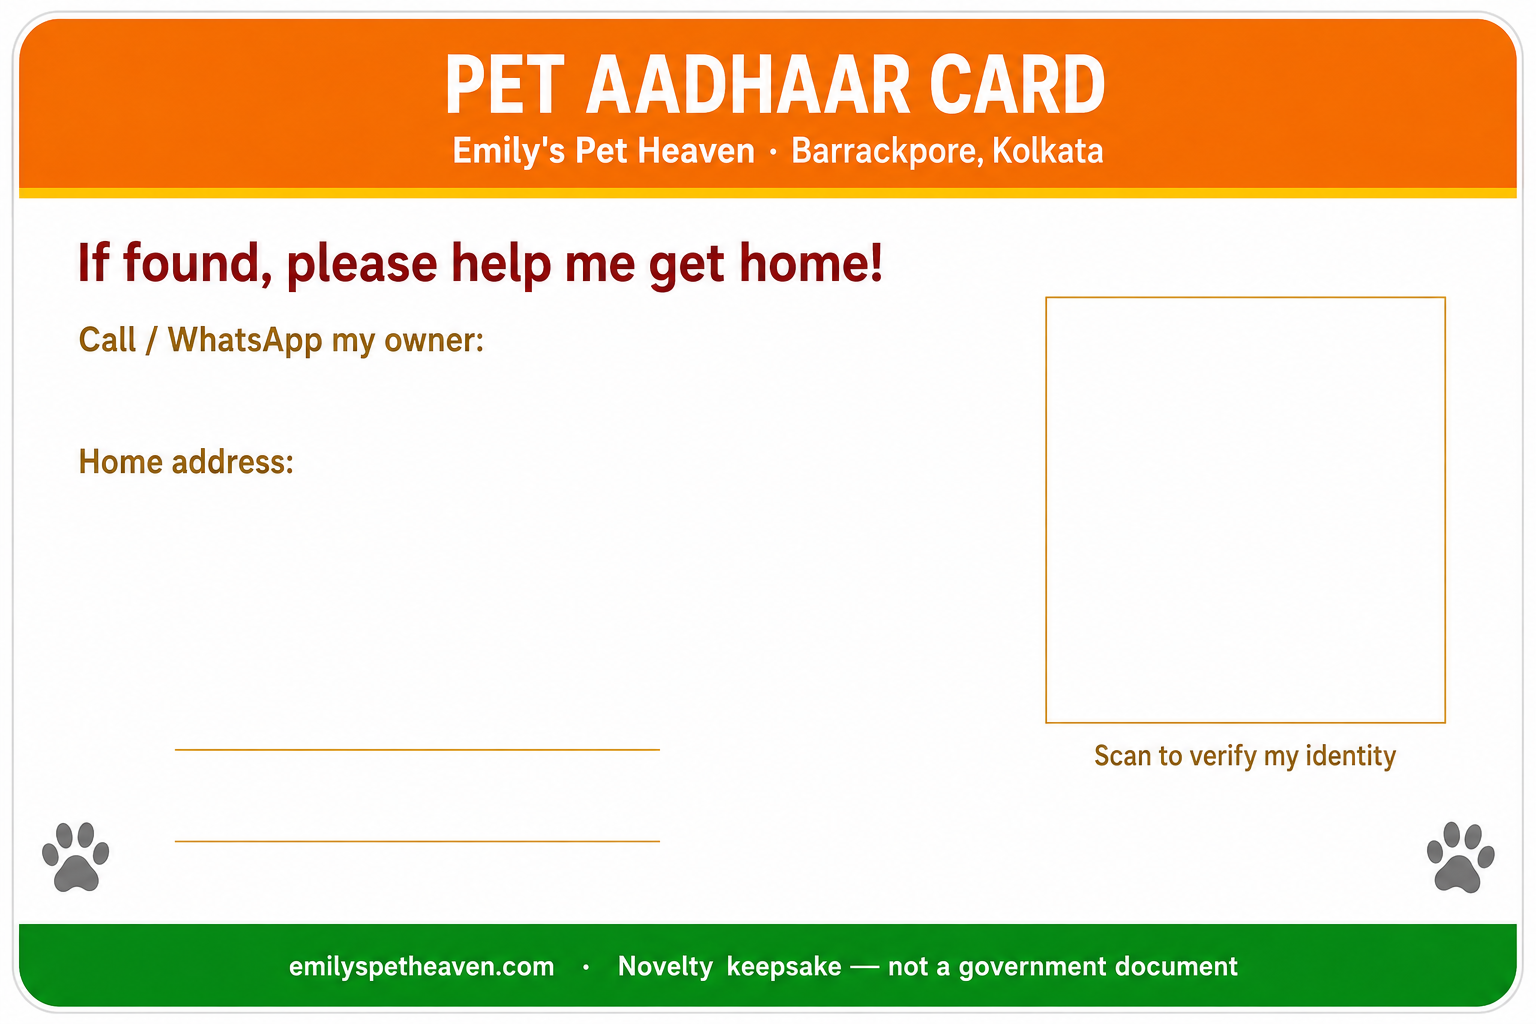
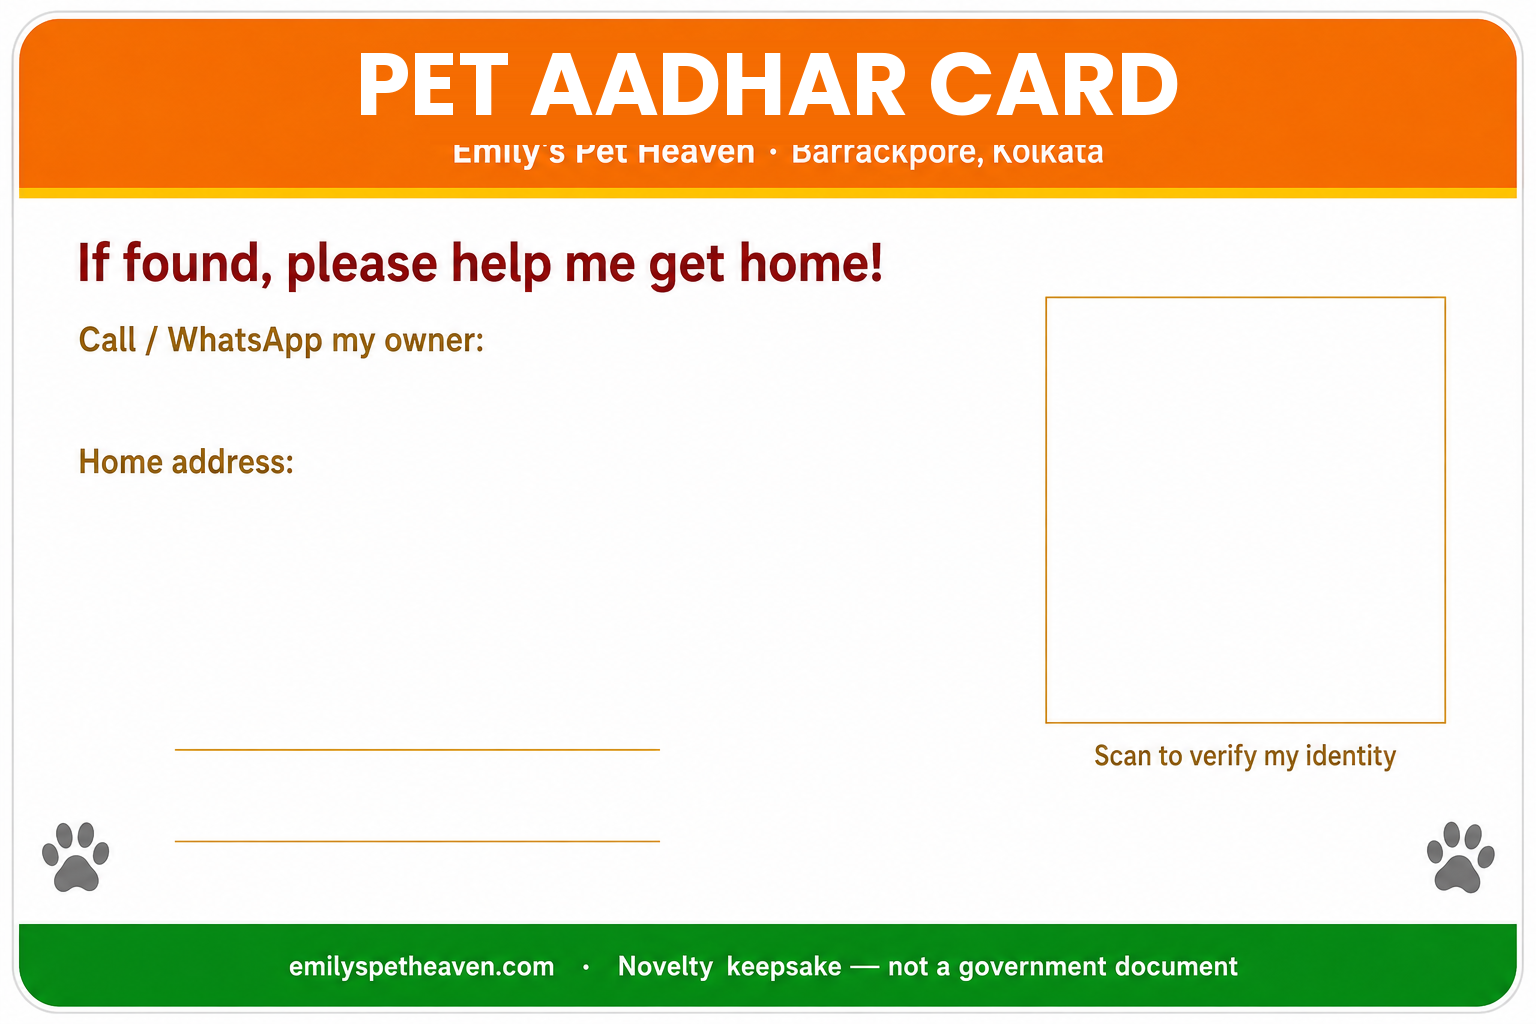
Auto-fit long field text, owner line on card back, AADHAR spelling on back header

Changed region(s): [[0.2188, 0.0312, 0.7812, 0.1562]]

diff --git a/pet-aadhaar/admin.html b/pet-aadhaar/admin.html
@@ -200,8 +200,8 @@
       }
       function renderPreview() {
         var data = previewData();
-        PetCard.renderCard($("prev"), data, { templateUrl: "../assets/petcard/template.png?v=5" });
-        PetCard.renderCardBack($("prevBack"), data, { templateUrl: "../assets/petcard/template-back.png?v=5" });
+        PetCard.renderCard($("prev"), data, { templateUrl: "../assets/petcard/template.png?v=6" });
+        PetCard.renderCardBack($("prevBack"), data, { templateUrl: "../assets/petcard/template-back.png?v=6" });
       }
       var t; ["aName","aOwner","aBreed","aGender","aDob","aAddress","aPhone"].forEach(function (id) {
         $(id).addEventListener("input", function () { clearTimeout(t); t = setTimeout(renderPreview, 120); });
@@ -271,7 +271,7 @@
       $("dlPng").addEventListener("click", function () { saveCanvas($("prev"), dlName("")); });
       $("dlPngBack").addEventListener("click", function () { saveCanvas($("prevBack"), dlName("-back")); });
       $("dlReview").addEventListener("click", function () {
-        PetCard.renderCard($("dlCanvas"), previewData(), { templateUrl: "../assets/petcard/template.png?v=5", review: true }).then(function (cv) {
+        PetCard.renderCard($("dlCanvas"), previewData(), { templateUrl: "../assets/petcard/template.png?v=6", review: true }).then(function (cv) {
           saveCanvas(cv, dlName("-review"));
         });
       });
@@ -381,8 +381,8 @@
       function renderOrder(item) {
         var data = { name: item.name, owner: item.owner, breed: item.breed, gender: item.gender, dob: item.dob, address: item.address, phone: item.phone, photoUrl: item.photo, petNo: item.petNo, verifyUrl: PetCard.verifyUrlFor(item.id) };
         var front = document.createElement("canvas"), back = document.createElement("canvas");
-        return PetCard.renderCard(front, data, { templateUrl: "../assets/petcard/template.png?v=5" }).then(function () {
-          return PetCard.renderCardBack(back, data, { templateUrl: "../assets/petcard/template-back.png?v=5" });
+        return PetCard.renderCard(front, data, { templateUrl: "../assets/petcard/template.png?v=6" }).then(function () {
+          return PetCard.renderCardBack(back, data, { templateUrl: "../assets/petcard/template-back.png?v=6" });
         }).then(function () {
           return { front: front, back: back, meta: { name: item.name, petNo: item.petNo } };
         });
@@ -463,9 +463,9 @@
               buildA4Pdf([order], pdfNameFor(item.name, item.petNo));
             });
           } else if (act === "dlback") {
-            PetCard.renderCardBack($("dlCanvas"), data, { templateUrl: "../assets/petcard/template-back.png?v=5" }).then(function (cv) { saveCanvas(cv, base + "-back.png"); });
+            PetCard.renderCardBack($("dlCanvas"), data, { templateUrl: "../assets/petcard/template-back.png?v=6" }).then(function (cv) { saveCanvas(cv, base + "-back.png"); });
           } else {
-            PetCard.renderCard($("dlCanvas"), data, { templateUrl: "../assets/petcard/template.png?v=5", review: act === "review" }).then(function (cv) {
+            PetCard.renderCard($("dlCanvas"), data, { templateUrl: "../assets/petcard/template.png?v=6", review: act === "review" }).then(function (cv) {
               saveCanvas(cv, base + (act === "review" ? "-review" : "") + ".png");
             });
           }

diff --git a/js/petcard-card.js b/js/petcard-card.js
@@ -82,12 +82,21 @@
     return c;
   }
 
+  // Pick the largest font size (from `sizes`) at which the text fits maxWidth.
+  function fitFont(ctx, text, maxWidth, sizes, weight) {
+    for (var i = 0; i < sizes.length; i++) {
+      ctx.font = weight + " " + sizes[i] + 'px Poppins, "Noto Sans Devanagari", Arial, sans-serif';
+      if (ctx.measureText(String(text)).width <= maxWidth) return sizes[i];
+    }
+    return sizes[sizes.length - 1];
+  }
+
   function field(ctx, value, y, maxWidth) {
     if (!value) return;
     ctx.fillStyle = "#1a1a1a";
     ctx.textBaseline = "middle";
     ctx.textAlign = "left";
-    ctx.font = '600 38px Poppins, "Noto Sans Devanagari", Arial, sans-serif';
+    fitFont(ctx, value, maxWidth, [38, 34, 30, 27], "600");
     var lines = wrapLines(ctx, value, maxWidth);
     if (lines.length <= 1) {
       ctx.fillText(lines[0] || "", VALUE_X, y, maxWidth);
@@ -118,7 +127,7 @@
   // QR at the website homepage instead of the verification page.
   function renderCard(canvas, data, opts) {
     opts = opts || {};
-    var templateUrl = opts.templateUrl || "assets/petcard/template.png?v=5";
+    var templateUrl = opts.templateUrl || "assets/petcard/template.png?v=6";
     canvas.width = TPL_W; canvas.height = TPL_H;
     var ctx = canvas.getContext("2d");
 
@@ -127,11 +136,11 @@
       ctx.drawImage(tpl, 0, 0, TPL_W, TPL_H);
 
       // Fields (Address kept clear of the QR column).
-      field(ctx, data.name, ROWS.name, 760);
-      field(ctx, data.owner, ROWS.owner, 760);
-      field(ctx, data.breed, ROWS.breed, 760);
-      field(ctx, data.gender, ROWS.gender, 760);
-      field(ctx, data.dob, ROWS.dob, 760);
+      field(ctx, data.name, ROWS.name, 740);
+      field(ctx, data.owner, ROWS.owner, 405);
+      field(ctx, data.breed, ROWS.breed, 405);
+      field(ctx, data.gender, ROWS.gender, 405);
+      field(ctx, data.dob, ROWS.dob, 405);
       field(ctx, data.address, ROWS.address, 385);
 
       // Pet ID number, centered in the bottom box.
@@ -203,7 +212,7 @@
   // pet name and Pet ID.
   function renderCardBack(canvas, data, opts) {
     opts = opts || {};
-    var templateUrl = opts.templateUrl || "assets/petcard/template-back.png?v=5";
+    var templateUrl = opts.templateUrl || "assets/petcard/template-back.png?v=6";
     canvas.width = TPL_W; canvas.height = TPL_H;
     var ctx = canvas.getContext("2d");
 
@@ -227,9 +236,15 @@
       // Pet name (on the first underline) and Pet ID (on the second).
       ctx.textAlign = "center";
       ctx.fillStyle = "#4E0000";
-      ctx.font = '700 42px Poppins, Arial, sans-serif';
       var petLine = (data.name || "") + (data.breed ? "  \u00b7  " + data.breed : "") + (data.gender ? "  \u00b7  " + data.gender : "");
-      ctx.fillText(petLine, 417, 736, 480);
+      fitFont(ctx, petLine, 560, [42, 38, 34, 30], "700");
+      ctx.fillText(petLine, 417, 736, 560);
+      if (data.owner) {
+        ctx.fillStyle = "#7a4a00";
+        var ownerLine = "Owner: " + data.owner;
+        fitFont(ctx, ownerLine, 560, [30, 27, 24], "600");
+        ctx.fillText(ownerLine, 417, 778, 560);
+      }
       ctx.fillStyle = "#111111";
       ctx.font = '700 54px Poppins, Arial, sans-serif';
       ctx.fillText(data.petNo || "0000 0000 0000", 417, 828, 480);

diff --git a/pet/index.html b/pet/index.html
@@ -119,7 +119,7 @@
             dob: c.dob, address: c.address, petNo: c.petNo, photoUrl: c.photo,
             verifyUrl: PetCard.verifyUrlFor(c.id)
           };
-          var render = function () { PetCard.renderCard(document.getElementById("cardCanvas"), data, { templateUrl: "../assets/petcard/template.png?v=5" }); };
+          var render = function () { PetCard.renderCard(document.getElementById("cardCanvas"), data, { templateUrl: "../assets/petcard/template.png?v=6" }); };
           if (document.fonts && document.fonts.ready) document.fonts.ready.then(render); else render();
           loader.style.display = "none";
         })

diff --git a/pet-aadhaar/index.html b/pet-aadhaar/index.html
@@ -285,7 +285,7 @@
           petNo: "0000 0000 0000",
           verifyUrl: PetCard.SITE + "/pet-aadhaar/"
         });
-        PetCard.renderCard(canvas, data, { templateUrl: "../assets/petcard/template.png?v=5" });
+        PetCard.renderCard(canvas, data, { templateUrl: "../assets/petcard/template.png?v=6" });
       }
       function scheduleRender() { clearTimeout(renderTimer); renderTimer = setTimeout(render, 120); }
 
